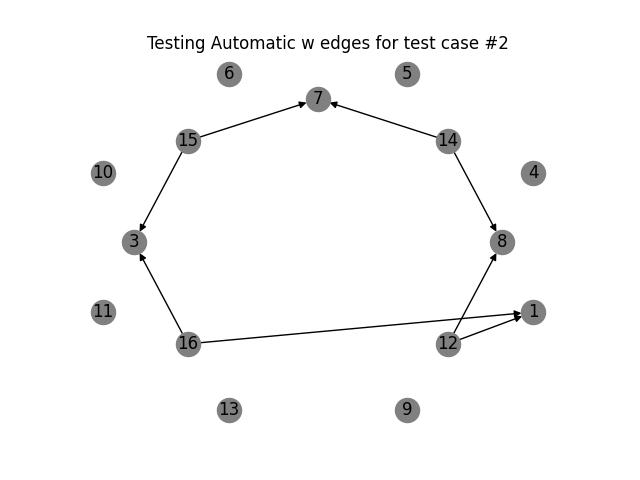
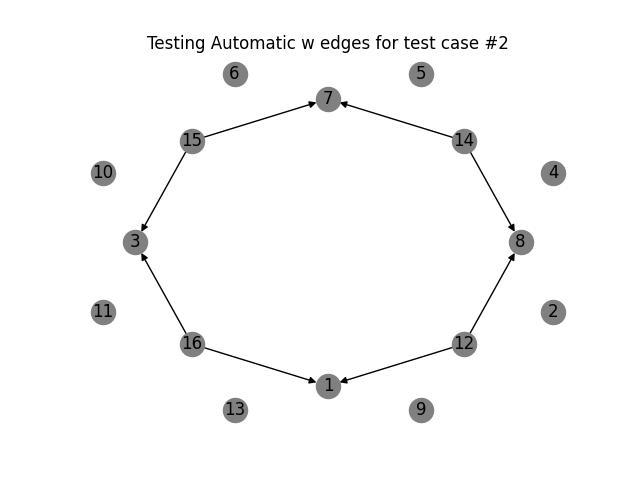
all test cases

diff --git a/starting/graphGenerator.py b/starting/graphGenerator.py
@@ -10,11 +10,11 @@ pi = math.pi
 print("pi:", pi)
 #provided array:
 graphCases = [[4, 8, 1, 7, 3, 6, 5, 2], [1, 6, 2, 10, 3, 12, 5, 4, 8, 7, 9, 11], # 4 vertices, 6 vertices
-              [8, 14, 7, 15, 3, 16, 1, 12, 4, 5, 6, 10, 11, 13, 9, 1], #[8, 7, 3, 1, 14, 15, 16, 12, 4, 5, 6, 10, 11, 13, 9, 2], # 8 vertices
+              [8, 14, 7, 15, 3, 16, 1, 12, 4, 5, 6, 10, 11, 13, 9, 2], #[8, 7, 3, 1, 14, 15, 16, 12, 4, 5, 6, 10, 11, 13, 9, 2], # 8 vertices
               [1, 9, 2, 20, 3, 16, 4, 19, 5, 11, 8, 7, 18, 17, 13, 12, 15, 14, 6, 10], # 10 vertices
               [1, 12, 2, 15, 3, 28, 4, 26, 5, 21, 6, 25, 7, 27, 9, 8, 11, 10, 23, 22, 20, 19, 14, 13, 17, 16, 18, 24], # 14 vertices
               [1, 36, 2, 33, 3, 18, 4, 23, 5, 22, 6, 35, 7, 28, 8, 32, 9, 34, 31, 30, 27, 26, 11, 10, 15, 14, 13, 12, 25, 24, 17, 16, 20, 19, 21, 29]] # 18 vertices
-caseNum = 5
+caseNum = 0
 graphValues = graphCases[caseNum]
 print("Reading from the following: ", graphValues)
 
